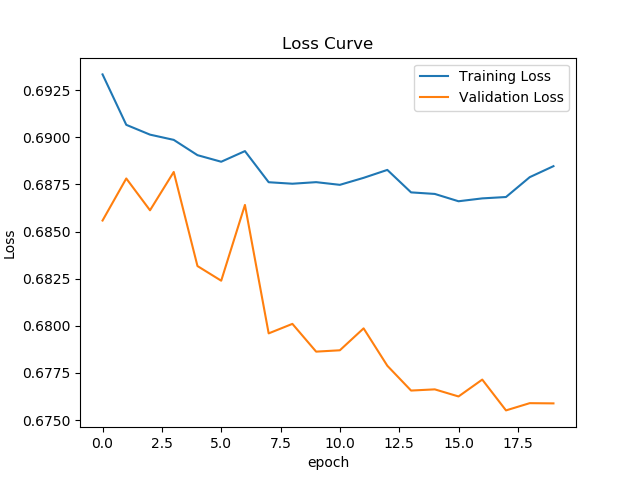
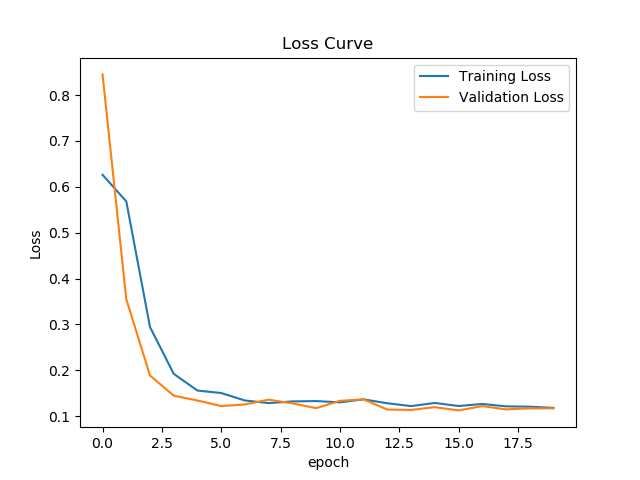
prediction good

diff --git a/src/sepsis_prediction_short_term/mymodels.py b/src/sepsis_prediction_short_term/mymodels.py
@@ -5,9 +5,9 @@ from torch.nn.utils.rnn import pack_padded_sequence, pad_packed_sequence
 class MyLSTM(nn.Module):
     def __init__(self, dim_input):
         super(MyLSTM, self).__init__()
-        self.embedding = nn.Linear(in_features=dim_input, out_features=16)
-        self.rnn = nn.LSTM(input_size=16, hidden_size=8, batch_first=True)
-        self.output = nn.Linear(in_features=8, out_features=2)
+        self.embedding = nn.Linear(in_features=dim_input, out_features=8)
+        self.rnn = nn.LSTM(input_size=8, hidden_size=4, batch_first=True)
+        self.output = nn.Linear(in_features=4, out_features=2)
     
     def forward(self, input_tuple):
         seqs, lengths = input_tuple

diff --git a/src/sepsis_prediction_short_term/etl_sepsis_data.py b/src/sepsis_prediction_short_term/etl_sepsis_data.py
@@ -8,7 +8,7 @@ PATH_TEST = "./../../data/sepsis/test/test_sample_cleaned_pivoted_vital.csv"
 PATH_OUTPUT = "./../../data/sepsis/processed_short_term/"
 
 
-def create_dataset(path, time_step=4):
+def create_dataset(path, time_step=24):
     """
     :param path: path to the directory contains raw files.
     :param timestep: time step for the sample
